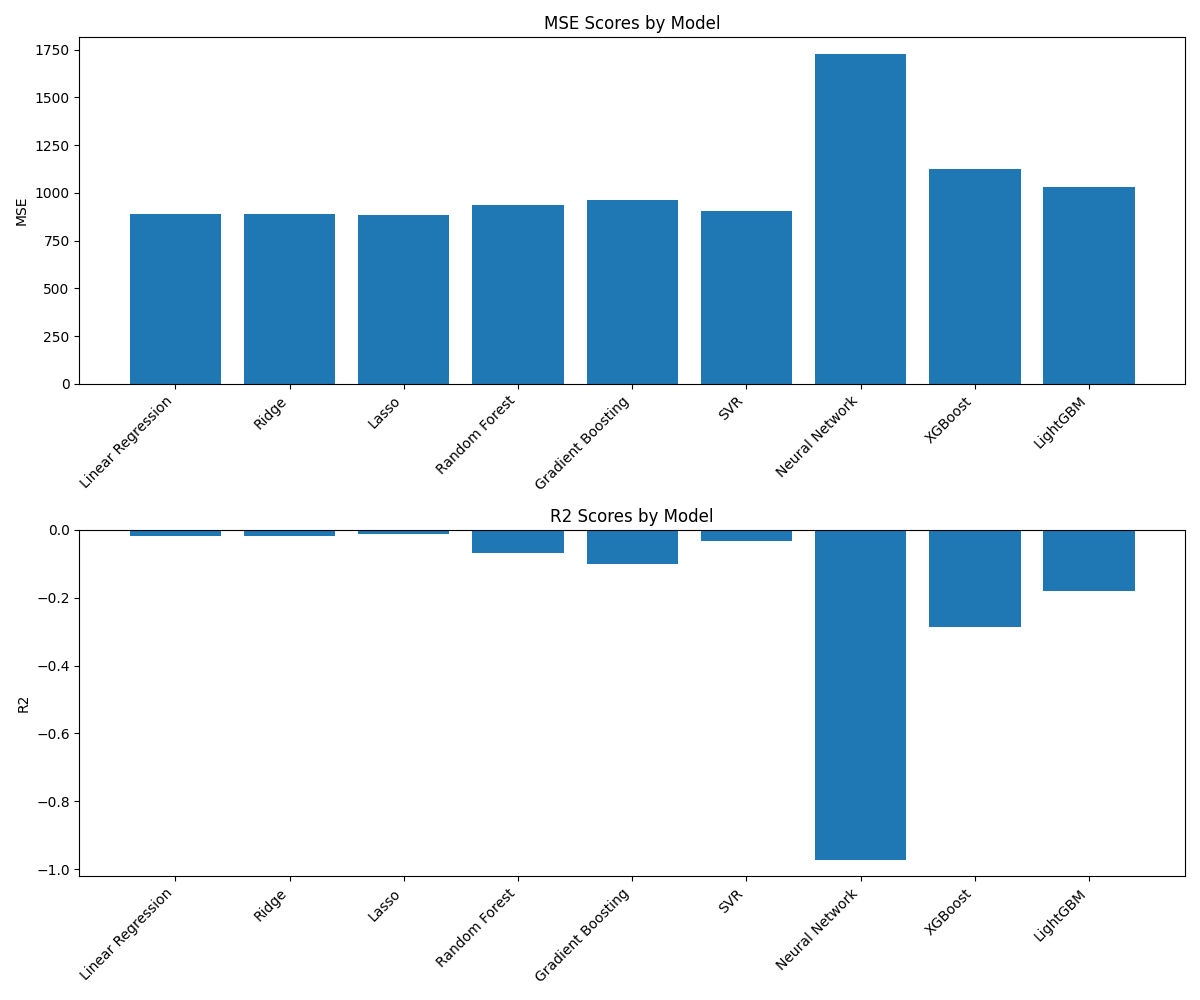
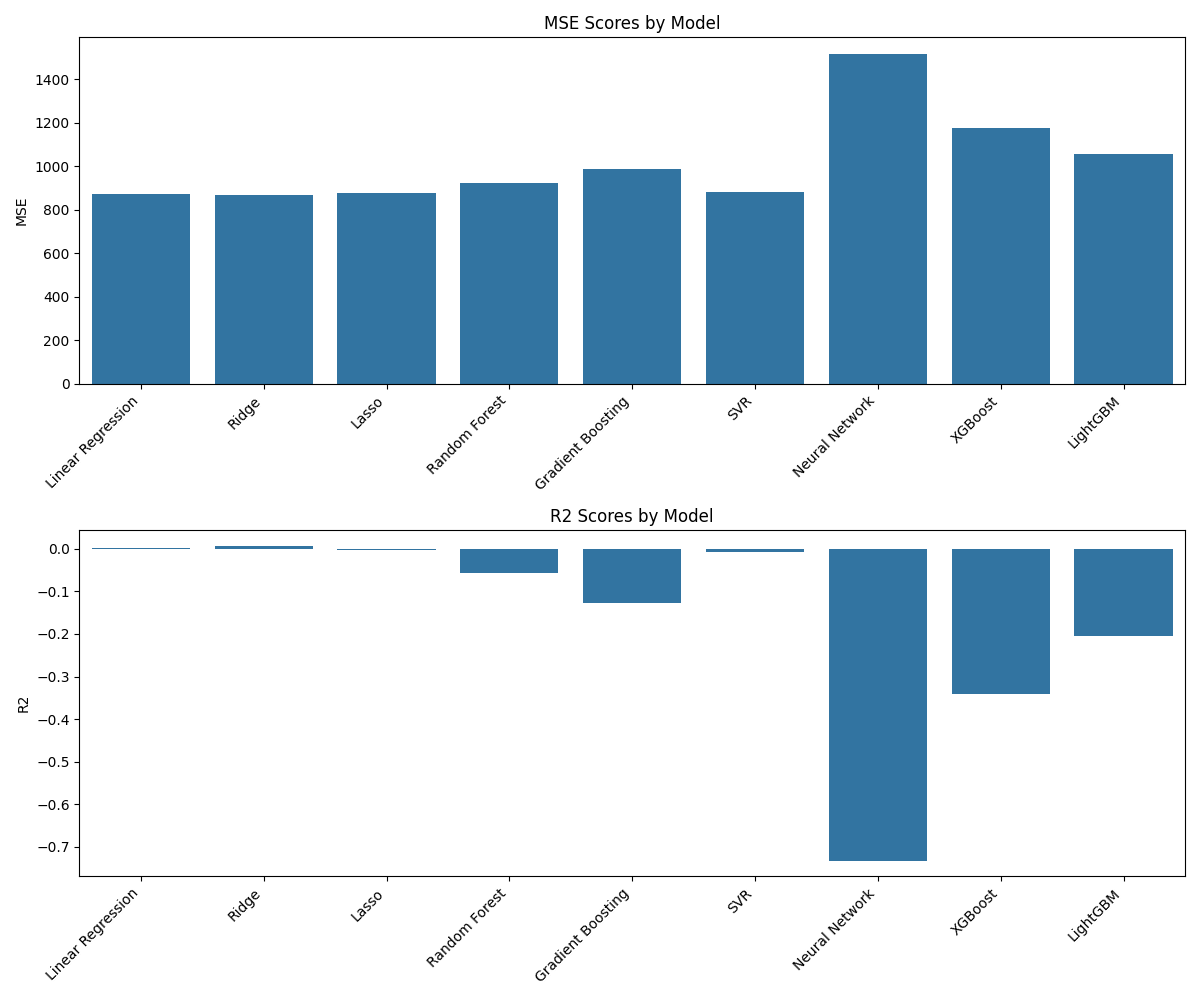
Enhanced the risk prediction model for LLM prompt effectiveness. Integrated advanced data preprocessing techniques including feature engineering, interaction terms, and binning for numeric features. Incorporated multiple machine learning algorithms such as Linear Regression, Ridge, Lasso, Random For

diff --git a/risk_prediction_refinement.py b/risk_prediction_refinement.py
@@ -3,7 +3,7 @@ import numpy as np
 import matplotlib.pyplot as plt
 import seaborn as sns
 from sklearn.model_selection import train_test_split, cross_val_score
-from sklearn.preprocessing import StandardScaler, OneHotEncoder
+from sklearn.preprocessing import StandardScaler, OneHotEncoder, PowerTransformer
 from sklearn.compose import ColumnTransformer
 from sklearn.pipeline import Pipeline
 from sklearn.impute import SimpleImputer
@@ -25,13 +25,15 @@ class AdvancedRiskPredictor:
             'Random Forest': RandomForestRegressor(n_estimators=100, random_state=42),
             'Gradient Boosting': GradientBoostingRegressor(n_estimators=100, random_state=42),
             'SVR': SVR(),
-            'Neural Network': MLPRegressor(hidden_layer_sizes=(100, 50), max_iter=2000, random_state=42),
+            'Neural Network': MLPRegressor(hidden_layer_sizes=(100, 50), max_iter=5000, random_state=42),
             'XGBoost': XGBRegressor(random_state=42),
             'LightGBM': LGBMRegressor(random_state=42)
         }
         self.preprocessor = None
         self.feature_selector = SelectKBest(score_func=f_regression, k=10)
         self.best_model = None
+        self.prompt_length_bins = None
+        self.time_constraint_bins = None
 
     def load_llm_prompting_data(self):
         np.random.seed(42)
@@ -55,16 +57,35 @@ class AdvancedRiskPredictor:
         data['complexity_clarity_ratio'] = data['prompt_complexity'] / data['instruction_clarity']
         data['time_pressure'] = data['expected_output_length'] / data['time_constraint']
         data['creativity_domain_interaction'] = data['creativity_required'] * data['domain_specificity']
+        
+        # Log transform for skewed numeric features
+        skewed_features = ['prompt_length', 'expected_output_length', 'time_constraint']
+        for feature in skewed_features:
+            data[f'{feature}_log'] = np.log1p(data[feature])
+        
+        # Binning for numeric features (only if more than one unique value)
+        if data['prompt_length'].nunique() > 1:
+            data['prompt_length_bins'] = pd.qcut(data['prompt_length'], q=4, labels=['short', 'medium', 'long', 'very_long'])
+            self.prompt_length_bins = data['prompt_length_bins'].cat.categories
+        if data['time_constraint'].nunique() > 1:
+            data['time_constraint_bins'] = pd.qcut(data['time_constraint'], q=3, labels=['short', 'medium', 'long'])
+            self.time_constraint_bins = data['time_constraint_bins'].cat.categories
+        
+        # Interaction terms
+        data['length_complexity'] = data['prompt_length'] * data['prompt_complexity']
+        data['difficulty_clarity'] = data['target_task_difficulty'] * data['instruction_clarity']
+        
         return data
 
     def preprocess_data(self, data):
         data = self.engineer_features(data)
         
-        numeric_features = [col for col in data.columns if col not in ['model_size', 'prompt_effectiveness_score']]
-        categorical_features = ['model_size']
+        numeric_features = [col for col in data.columns if data[col].dtype in ['int64', 'float64'] and col != 'prompt_effectiveness_score']
+        categorical_features = [col for col in data.columns if data[col].dtype == 'object' or data[col].dtype.name == 'category']
 
         numeric_transformer = Pipeline(steps=[
             ('imputer', SimpleImputer(strategy='median')),
+            ('power', PowerTransformer(method='yeo-johnson')),
             ('scaler', StandardScaler())
         ])
         categorical_transformer = Pipeline(steps=[
@@ -122,27 +143,17 @@ class AdvancedRiskPredictor:
         print(f"\nBest Model: {self.best_model}")
 
         # Visualize model performance
-        model_names = list(results.keys())
-        mse_scores = [results[name]['MSE'] for name in model_names]
-        r2_scores = [results[name]['R2'] for name in model_names]
-
-        fig, (ax1, ax2) = plt.subplots(2, 1, figsize=(12, 10))
-        ax1.bar(model_names, mse_scores)
-        ax1.set_title('MSE Scores by Model')
-        ax1.set_ylabel('MSE')
-        ax1.set_xticklabels(model_names, rotation=45, ha='right')
-
-        ax2.bar(model_names, r2_scores)
-        ax2.set_title('R2 Scores by Model')
-        ax2.set_ylabel('R2')
-        ax2.set_xticklabels(model_names, rotation=45, ha='right')
-
-        plt.tight_layout()
-        plt.savefig('model_performance_comparison.png')
-        plt.close()
+        self.visualize_model_performance(results)
 
     def predict_prompt_effectiveness(self, prompt_data):
         prompt_data = self.engineer_features(prompt_data)
+        
+        # Add missing binned columns with a default value
+        if 'prompt_length_bins' not in prompt_data.columns and self.prompt_length_bins is not None:
+            prompt_data['prompt_length_bins'] = self.prompt_length_bins[0]
+        if 'time_constraint_bins' not in prompt_data.columns and self.time_constraint_bins is not None:
+            prompt_data['time_constraint_bins'] = self.time_constraint_bins[0]
+        
         X_preprocessed = self.preprocessor.transform(prompt_data)
         X_selected = self.feature_selector.transform(X_preprocessed)
         return self.models[self.best_model].predict(X_selected)
@@ -168,6 +179,26 @@ class AdvancedRiskPredictor:
         plt.title('Correlation Matrix of Numeric Features')
         plt.tight_layout()
         plt.savefig('correlation_matrix.png')
+        plt.close()
+
+    def visualize_model_performance(self, results):
+        model_names = list(results.keys())
+        mse_scores = [results[name]['MSE'] for name in model_names]
+        r2_scores = [results[name]['R2'] for name in model_names]
+
+        fig, (ax1, ax2) = plt.subplots(2, 1, figsize=(12, 10))
+        sns.barplot(x=model_names, y=mse_scores, ax=ax1)
+        ax1.set_title('MSE Scores by Model')
+        ax1.set_ylabel('MSE')
+        ax1.set_xticklabels(ax1.get_xticklabels(), rotation=45, ha='right')
+
+        sns.barplot(x=model_names, y=r2_scores, ax=ax2)
+        ax2.set_title('R2 Scores by Model')
+        ax2.set_ylabel('R2')
+        ax2.set_xticklabels(ax2.get_xticklabels(), rotation=45, ha='right')
+
+        plt.tight_layout()
+        plt.savefig('model_performance_comparison.png')
         plt.close()
 
 # Example usage
